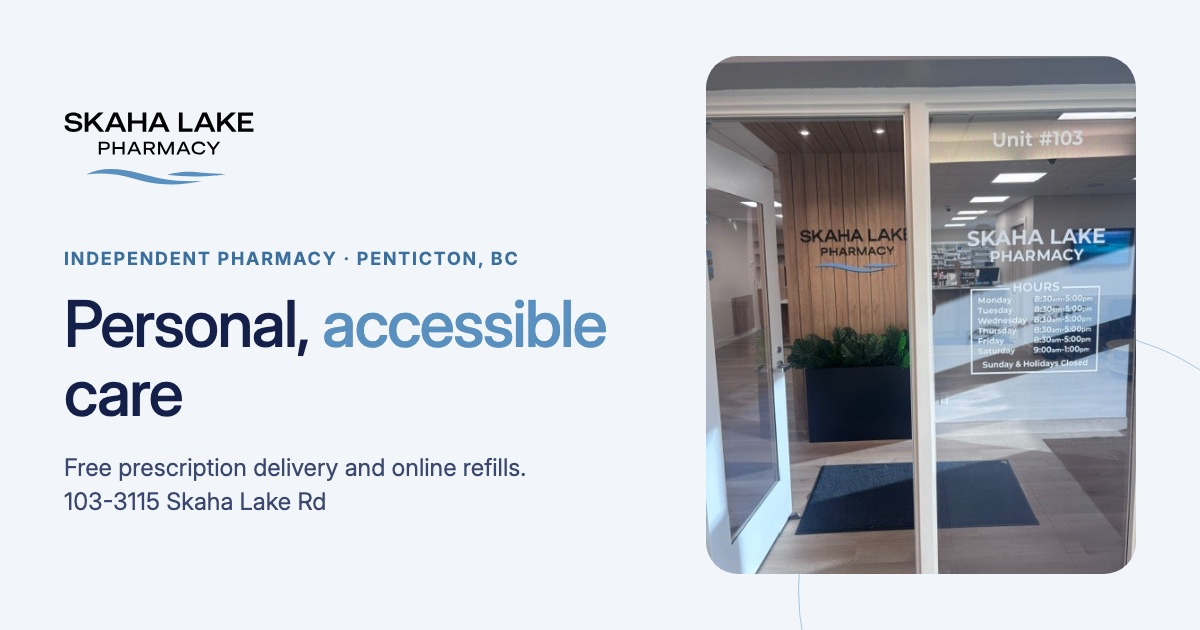
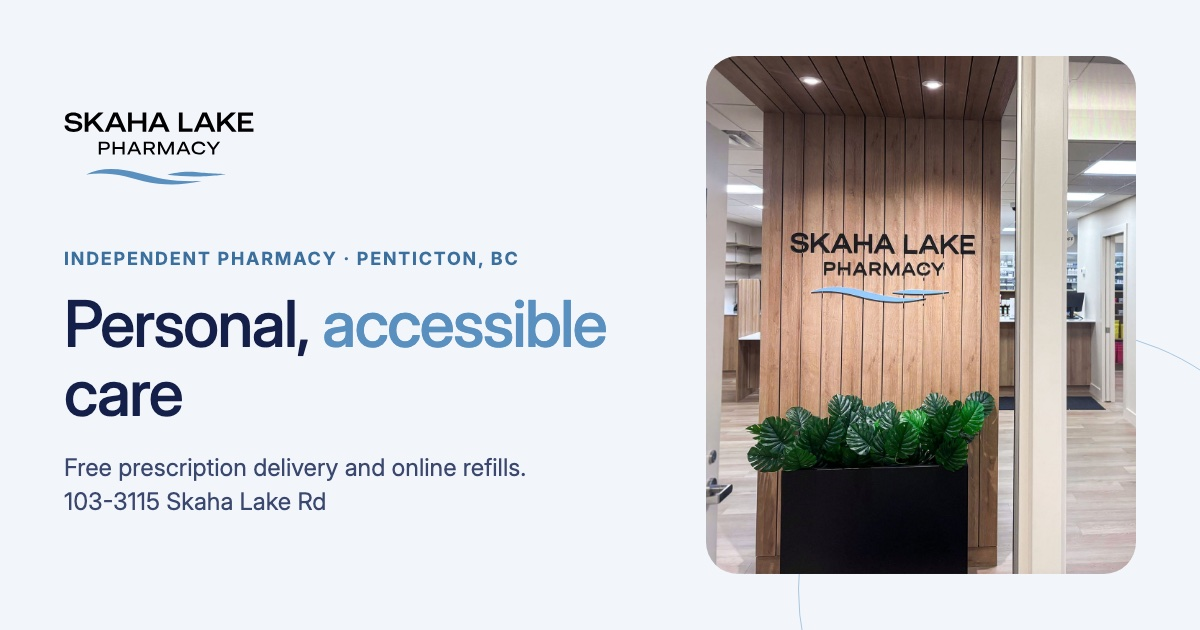
Swap in hi-res entrance and pharmacist photos; space and soften ripples
- New entrance photo (1800x1440) in a 5:4 hero frame, uncropped
- New Chase Nickel portrait (1200x1500) in a 4:5 frame
- New filenames so cached old photos aren't reused; share image
  re-rendered with the new entrance photo
- Wider gap between the lake circle and story text
- Ripple lines peak at half opacity

Changed region(s): [[0.5858, 0.0905, 0.9558, 0.9349]]

diff --git a/public/assets/css/site.css b/public/assets/css/site.css
@@ -723,10 +723,10 @@ ol[role="list"] {
 .hero__content .lead { max-width: 512px; }
 .hero__content .cta-row { padding-top: 20px; }
 
+/* Frame matches the entrance photo (5:4) so nothing is cropped */
 .hero__media {
   position: relative;
-  align-self: stretch;
-  min-height: 404px;
+  aspect-ratio: 5 / 4;
   border-radius: var(--r-card);
   overflow: hidden;
   background: var(--blue-100);
@@ -736,7 +736,6 @@ ol[role="list"] {
   width: 100%;
   height: 100%;
   object-fit: cover;
-  object-position: 50% 46%;
 }
 
 .status-chip {
@@ -796,10 +795,6 @@ ol[role="list"] {
 
   .hero__content .cta-row { padding-top: 8px; }
 
-  .hero__media {
-    min-height: 0;
-    aspect-ratio: 5 / 4;
-  }
 }
 
 /* Home: story band
@@ -808,7 +803,8 @@ ol[role="list"] {
 .story-band {
   --disc: clamp(300px, 27vw, 380px);
   display: grid;
-  grid-template-columns: minmax(calc(var(--disc) + 40px), 1fr) minmax(0, 700px);
+  grid-template-columns: minmax(var(--disc), 1fr) minmax(0, 700px);
+  column-gap: clamp(64px, 6.5vw, 104px);
   align-items: center;
   min-height: 446px;
   padding: 64px 80px;
@@ -944,7 +940,7 @@ ol[role="list"] {
 
 @keyframes ripple {
   0% { transform: scale(0.43); opacity: 0; }
-  8% { opacity: 1; }
+  8% { opacity: 0.5; }
   100% { transform: scale(1); opacity: 0; }
 }
 
@@ -984,7 +980,7 @@ ol[role="list"] {
   .story-band {
     --disc: min(300px, 100vw - 96px);
     grid-template-columns: 1fr;
-    gap: 44px;
+    gap: 64px;
     min-height: 0;
     padding: 64px 24px 40px;
   }
@@ -1290,7 +1286,7 @@ ol[role="list"] {
 }
 
 .story__photo {
-  aspect-ratio: 440 / 600;
+  aspect-ratio: 4 / 5;
   border-radius: 32px;
   overflow: hidden;
   background: var(--blue-100);
@@ -1367,10 +1363,6 @@ ol[role="list"] {
     gap: 16px;
   }
 
-  .story__photo {
-    max-height: 520px;
-    aspect-ratio: 4 / 5;
-  }
 
   .callout { padding: 22px 24px; }
 }
@@ -2057,7 +2049,7 @@ ol[role="list"] {
   .js [data-reveal]:not(.is-in) { opacity: 1; }
 
   /* Still rings in place of the ripple */
-  .ripples circle { animation: none; opacity: 0.85; }
+  .ripples circle { animation: none; opacity: 0.5; }
   .ripples circle:nth-child(1) { transform: scale(0.53); }
   .ripples circle:nth-child(2) { transform: scale(0.75); }
   .ripples circle:nth-child(3) { transform: scale(0.97); }

diff --git a/public/about/index.html b/public/about/index.html
@@ -22,7 +22,7 @@
 <link rel="preconnect" href="https://fonts.googleapis.com">
 <link rel="preconnect" href="https://fonts.gstatic.com" crossorigin>
 <link rel="stylesheet" href="https://fonts.googleapis.com/css2?family=Inter:opsz,wght@14..32,400..700&amp;display=swap">
-<link rel="stylesheet" href="../assets/css/site.css?v=565b4d3e">
+<link rel="stylesheet" href="../assets/css/site.css?v=6c3f86da">
 <script>
   document.documentElement.classList.add('js');
   if (document.prerendering) {
@@ -30,7 +30,7 @@
     document.addEventListener('prerenderingchange', () => document.documentElement.classList.remove('is-prerendering'), { once: true });
   }
 </script>
-<script src="../assets/js/site.js?v=565b4d3e" defer></script>
+<script src="../assets/js/site.js?v=6c3f86da" defer></script>
 <script type="speculationrules">
   { "prerender": [{ "where": { "href_matches": "/*" }, "eagerness": "moderate" }] }
 </script>
@@ -134,7 +134,7 @@
   <section class="story band band--white" aria-labelledby="story-title">
     <figure class="story__person" data-reveal>
       <div class="story__photo">
-        <img src="../assets/img/chase-nickel-pharmacist.jpg" width="240" height="327" alt="Chase Nickel, pharmacist and owner, standing in front of the Skaha Lake Pharmacy sign" loading="lazy">
+        <img src="../assets/img/chase-nickel-pharmacist-penticton.jpg" width="1200" height="1500" alt="Chase Nickel, pharmacist and owner, standing in front of the Skaha Lake Pharmacy sign" loading="lazy">
       </div>
       <figcaption>
         <p class="story__name">Chase Nickel</p>

diff --git a/public/index.html b/public/index.html
@@ -22,7 +22,7 @@
 <link rel="preconnect" href="https://fonts.googleapis.com">
 <link rel="preconnect" href="https://fonts.gstatic.com" crossorigin>
 <link rel="stylesheet" href="https://fonts.googleapis.com/css2?family=Inter:opsz,wght@14..32,400..700&amp;display=swap">
-<link rel="stylesheet" href="./assets/css/site.css?v=565b4d3e">
+<link rel="stylesheet" href="./assets/css/site.css?v=6c3f86da">
 <script>
   document.documentElement.classList.add('js');
   if (document.prerendering) {
@@ -30,7 +30,7 @@
     document.addEventListener('prerenderingchange', () => document.documentElement.classList.remove('is-prerendering'), { once: true });
   }
 </script>
-<script src="./assets/js/site.js?v=565b4d3e" defer></script>
+<script src="./assets/js/site.js?v=6c3f86da" defer></script>
 <script type="speculationrules">
   { "prerender": [{ "where": { "href_matches": "/*" }, "eagerness": "moderate" }] }
 </script>
@@ -128,7 +128,7 @@
       </div>
     </div>
     <figure class="hero__media" data-load-media>
-      <img src="./assets/img/skaha-lake-pharmacy-storefront.jpg" width="480" height="640" alt="The entrance to Skaha Lake Pharmacy, Unit 103, with store hours on the glass door" fetchpriority="high">
+      <img src="./assets/img/skaha-lake-pharmacy-entrance.jpg" width="1800" height="1440" alt="The entrance to Skaha Lake Pharmacy, Unit 103, with store hours on the glass door" fetchpriority="high">
       <p class="status-chip" data-open-status hidden><span class="status-dot" aria-hidden="true"></span><span data-open-text></span></p>
     </figure>
   </section>

diff --git a/tools/og.html b/tools/og.html
@@ -26,7 +26,7 @@
   h1 { font-size: 64px; line-height: 1.08; font-weight: 500; letter-spacing: -0.025em; margin: 0 0 24px; }
   h1 span { color: #5990bf; }
   p { font-size: 24px; line-height: 1.4; color: #3a476f; margin: 0; }
-  .photo { width: 430px; height: 518px; border-radius: 32px; object-fit: cover; object-position: 50% 46%; }
+  .photo { width: 430px; height: 518px; border-radius: 32px; object-fit: cover; object-position: 40% 50%; }
   .disc { position: absolute; right: -120px; bottom: -220px; width: 520px; height: 520px; border-radius: 50%; border: 1px solid #a9c6e0; z-index: -1; }
 </style>
 </head>
@@ -38,6 +38,6 @@
     <h1>Personal, <span>accessible</span> care</h1>
     <p>Free prescription delivery and online refills.<br>103-3115 Skaha Lake Rd</p>
   </div>
-  <img class="photo" src="../public/assets/img/skaha-lake-pharmacy-storefront.jpg" alt="">
+  <img class="photo" src="../public/assets/img/skaha-lake-pharmacy-entrance.jpg" alt="">
 </body>
 </html>

diff --git a/public/order-online/index.html b/public/order-online/index.html
@@ -22,7 +22,7 @@
 <link rel="preconnect" href="https://fonts.googleapis.com">
 <link rel="preconnect" href="https://fonts.gstatic.com" crossorigin>
 <link rel="stylesheet" href="https://fonts.googleapis.com/css2?family=Inter:opsz,wght@14..32,400..700&amp;display=swap">
-<link rel="stylesheet" href="../assets/css/site.css?v=565b4d3e">
+<link rel="stylesheet" href="../assets/css/site.css?v=6c3f86da">
 <script>
   document.documentElement.classList.add('js');
   if (document.prerendering) {
@@ -30,7 +30,7 @@
     document.addEventListener('prerenderingchange', () => document.documentElement.classList.remove('is-prerendering'), { once: true });
   }
 </script>
-<script src="../assets/js/site.js?v=565b4d3e" defer></script>
+<script src="../assets/js/site.js?v=6c3f86da" defer></script>
 <script type="speculationrules">
   { "prerender": [{ "where": { "href_matches": "/*" }, "eagerness": "moderate" }] }
 </script>

diff --git a/public/404.html b/public/404.html
@@ -21,7 +21,7 @@
 <link rel="preconnect" href="https://fonts.googleapis.com">
 <link rel="preconnect" href="https://fonts.gstatic.com" crossorigin>
 <link rel="stylesheet" href="https://fonts.googleapis.com/css2?family=Inter:opsz,wght@14..32,400..700&amp;display=swap">
-<link rel="stylesheet" href="/assets/css/site.css?v=565b4d3e">
+<link rel="stylesheet" href="/assets/css/site.css?v=6c3f86da">
 <script>
   document.documentElement.classList.add('js');
   if (document.prerendering) {
@@ -29,7 +29,7 @@
     document.addEventListener('prerenderingchange', () => document.documentElement.classList.remove('is-prerendering'), { once: true });
   }
 </script>
-<script src="/assets/js/site.js?v=565b4d3e" defer></script>
+<script src="/assets/js/site.js?v=6c3f86da" defer></script>
 <script type="speculationrules">
   { "prerender": [{ "where": { "href_matches": "/*" }, "eagerness": "moderate" }] }
 </script>

diff --git a/partials/head.html b/partials/head.html
@@ -34,7 +34,7 @@
   "name": "Skaha Lake Pharmacy",
   "description": "Independent community pharmacy in Penticton, BC offering free prescription delivery, custom compounding, blister packaging, minor ailment prescribing, immunizations and private consultations.",
   "url": "{{siteUrl}}",
-  "image": "{{siteUrl}}assets/img/skaha-lake-pharmacy-storefront.jpg",
+  "image": "{{siteUrl}}assets/img/skaha-lake-pharmacy-entrance.jpg",
   "logo": "{{siteUrl}}assets/img/logo.svg",
   "telephone": "+1-250-422-4262",
   "faxNumber": "+1-250-422-4253",
